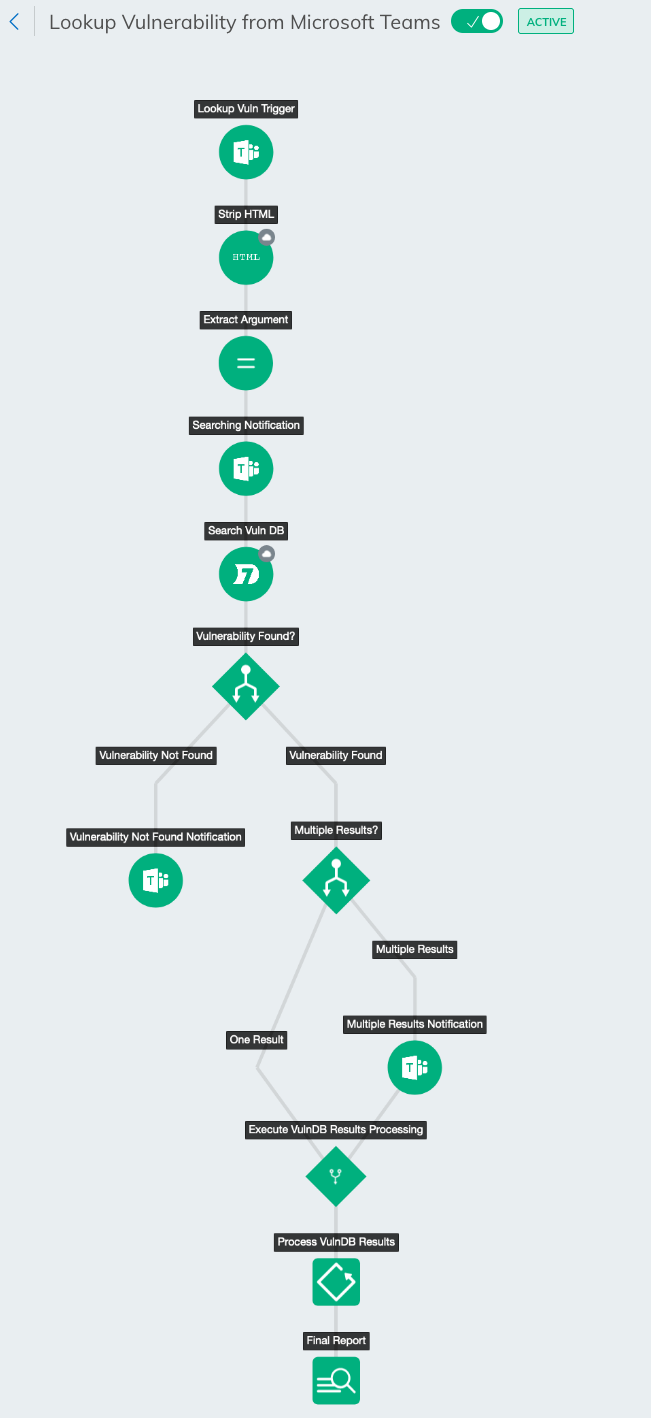
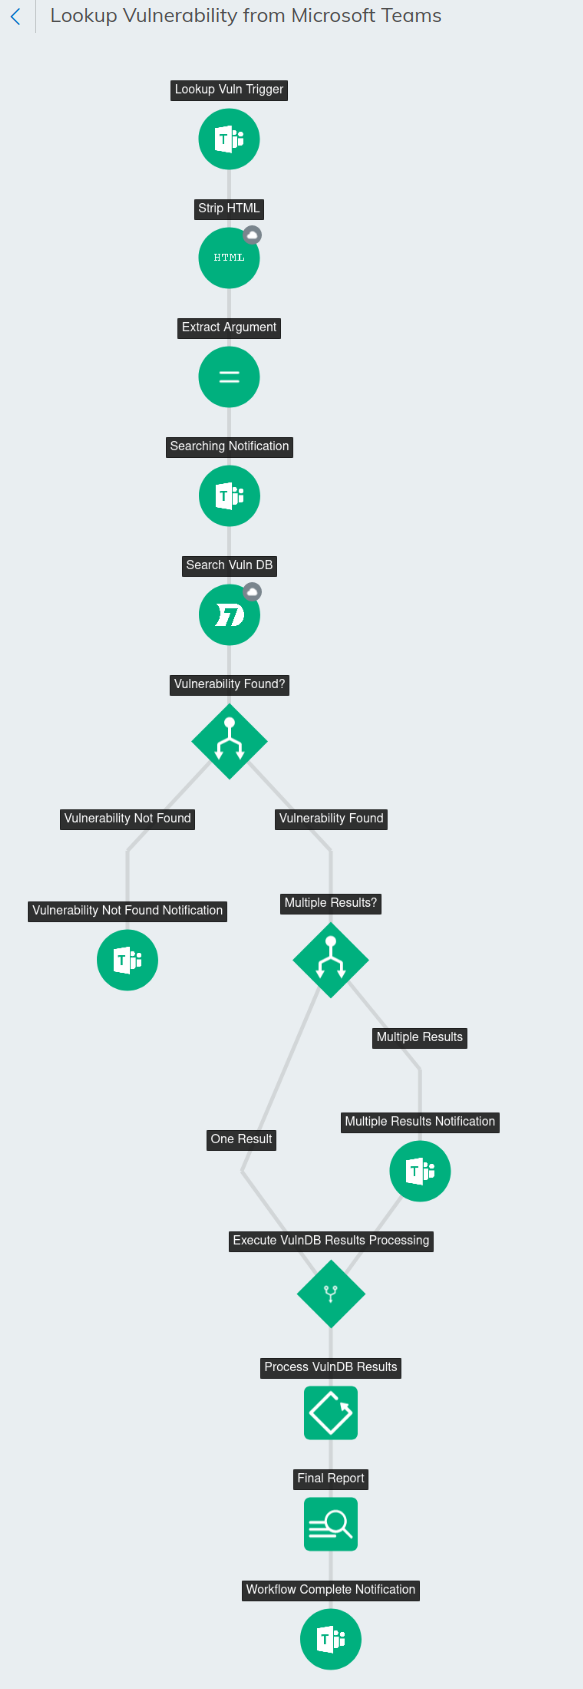
[MC-529][MC-846] Update workflow

Changed region(s): [[0.0309, 0.0, 0.8954, 0.6516], [0.3396, 0.4654, 0.8645, 0.9929], [0.0, 0.0, 0.0309, 0.031]]

diff --git a/workflows/Lookup_Vuln_From_Teams/help.md b/workflows/Lookup_Vuln_From_Teams/help.md
@@ -10,7 +10,6 @@ Sample Trigger Commands:
 
 `!lookup-vuln MS08-067`
 
-
 # Key Features
 
 * Lookup vulnerability information from a designated Microsoft Teams channel
@@ -27,9 +26,30 @@ Sample Trigger Commands:
 
 Import the workflow from the Rapid7 Extension Library and proceed through the Import Workflow wizard in InsightConnect. Import plugins, create or select connections, and rename the workflow as a part of the Import Workflow wizard as necessary.
 
-Once the workflow has been imported, set the `Team Name` and `Channel Name` parameters to the Microsoft Teams channel where your workflow may be run from. **Remember to add your Microsoft Teams user to this channel!**
+This workflow leverages InsightConnect's Parameters feature. This feature allows variables used multiple times throughout a workflow to be entered once and then referenced throughout the workflow.
+
+There are two parameters you will need to configure in order to complete setup of your workflow:
+
+* Team Name: The Microsoft Teams team name in your environment where the workflow should be triggered and respond
+* Channel Name: The Microsoft Teams channel name in your environment where the workflow should be triggered and respond (the channel should exist in the aforementioned team)
+
+To begin, select "Parameters" either from the Workflow Control Panel or from the Builder to begin configuration.
 
 After configuring the Microsoft Teams parameters, activate the workflow in order to trigger it.
+
+### Usage
+
+*This workflow will only trigger in the channel specified in the Microsoft Teams workflow steps.*
+
+To run the workflow, send a message to the specified Microsoft Teams channel starting with the command `!lookup-vuln`.
+
+For example:
+
+`!lookup-vuln CVE-2020-0674`
+
+`!lookup-vuln printnightmare`
+
+The workflow will post status updates in the designated Microsoft Teams channel as it runs.
 
 ## Technical Details
 
@@ -37,9 +57,9 @@ Plugins utilized by workflow:
 
 |Plugin|Version|Count|
 |----|----|--------|
-|Microsoft Teams|3.1.2|5|
+|Microsoft Teams|3.1.4|6|
 |HTML|1.2.2|1|
-|Rapid7 Vulnerability & Exploit Database|2.0.3|2|
+|Rapid7 Vulnerability & Exploit Database|2.1.0|2|
 |Basename|1.1.0|1|
 
 ## Troubleshooting
@@ -48,6 +68,7 @@ _There is no troubleshooting information at this time_
 
 # Version History
 
+* 2.0.1 - Update Microsoft Teams to version 3.1.4 | Update Rapid7 Vulnerability & Exploit Database to version 2.1.0 | Update documentation
 * 2.0.0 - Improved workflow logic, added parameters, updated plugins to run on cloud
 * 1.1.0 - Replace the Settings step with automatic team and channel name extraction in all Microsoft Teams steps except the first one | Update Microsoft Teams to version 3.1.0 | Update sample trigger commands in description | Update documentation
 * 1.0.2 - Fix to correct invalid version of Rapid7 Vulnerability & Exploit Database
